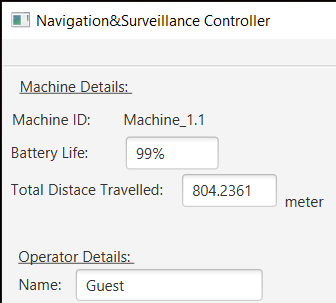
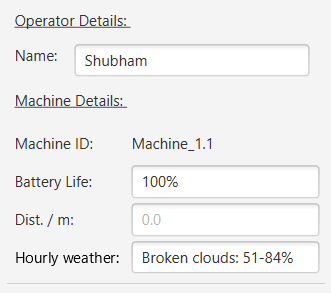
Created a thread to check on battery and weather & ESC closes the program

Changed region(s): [[0.0, 0.0, 1.0, 1.0]]

diff --git a/src/main/java/NavigationPanelController.java b/src/main/java/NavigationPanelController.java
@@ -8,6 +8,7 @@ import javafx.scene.control.TextField;
 import javafx.scene.image.ImageView;
 import javafx.scene.input.KeyCode;
 import javafx.scene.input.KeyEvent;
+import javafx.stage.Window;
 import org.opencv.core.CvType;
 import org.opencv.core.Mat;
 import org.opencv.videoio.VideoCapture;
@@ -17,7 +18,7 @@ import java.awt.image.DataBufferByte;
 import java.io.IOException;
 
 
-public class NavigationPanelController {
+public class NavigationPanelController extends Thread {
 
     public TextArea systemLogTA_ID;
     public TextField opName_ID;
@@ -28,9 +29,6 @@ public class NavigationPanelController {
     public TextField weatherRtf_ID;
     public Button backTrack_btn;
 
-    public NavigationPanelController() throws IOException {
-    }
-
     /**
      * Initialize Value
      * */
@@ -40,11 +38,6 @@ public class NavigationPanelController {
 
         /** Sets operator name fetching from user_ID field from login */
         opName_ID.setText( LoginController.operatorName );
-
-        /** Battery of laptop showing here can be replaced with vehicles battery */
-        Kernel32.SYSTEM_POWER_STATUS batteryStatus = new Kernel32.SYSTEM_POWER_STATUS();
-        Kernel32.INSTANCE.GetSystemPowerStatus(batteryStatus);
-        batteryLife_ID.setText(batteryStatus.toString());
 
 
         /** Turn on Video Cam */
@@ -57,28 +50,50 @@ public class NavigationPanelController {
             e.printStackTrace();
         }
 
-        /** Get weather data */
-        try{
-
-            System.out.println("Attempting to get weather data");
-
-            /** Gets Latitude and Longitude */
-            String latitude = LocalMapGenerator.latitudeGetter( LocalMapGenerator.publicIP_Finder() );
-            String longitude = LocalMapGenerator.longitudeGetter( LocalMapGenerator.publicIP_Finder() );
-
-            /** Call Weather api for weather data */
-            String currentWeather = LocalMapGenerator.getWeatherData(latitude, longitude);
-            weatherRtf_ID.setText( currentWeather );
-            System.out.println("Successfully fetched weather data");
-
-        }catch(Exception e){
-            weatherRtf_ID.setText("N/A");
-            System.out.println("Couldn't fetch weather data");
-            e.printStackTrace();
-        }
+        /** Calling thread for periodically checking on battery and weather in eevry 2 minutes */
+        start();
 
     }
 
+    /** This thread checks for battery and weather in every 2 minutes */
+    public void run(){
+
+        while(true){
+            try {
+                System.out.println("System: Checking battery Percentage");
+                /** Battery of laptop showing here can be replaced with vehicles battery */
+                Kernel32.SYSTEM_POWER_STATUS batteryStatus = new Kernel32.SYSTEM_POWER_STATUS();
+                Kernel32.INSTANCE.GetSystemPowerStatus(batteryStatus);
+                batteryLife_ID.setText(batteryStatus.toString());
+
+                /** Get weather data */
+                try{
+
+                    System.out.println("Location: Attempting to get weather data");
+
+                    /** Gets Latitude and Longitude */
+                    String latitude = LocalMapGenerator.latitudeGetter( LocalMapGenerator.publicIP_Finder() );
+                    String longitude = LocalMapGenerator.longitudeGetter( LocalMapGenerator.publicIP_Finder() );
+
+                    /** Call Weather api for weather data */
+                    String currentWeather = LocalMapGenerator.getWeatherData(latitude, longitude);
+                    weatherRtf_ID.setText( currentWeather );
+                    System.out.println("Location: Successfully fetched weather data");
+
+                }catch(Exception e){
+                    weatherRtf_ID.setText("N/A");
+                    System.out.println("Location: Couldn't fetch weather data");
+                    e.printStackTrace();
+                }
+
+                sleep(120000);
+
+            } catch (InterruptedException e) {
+                e.printStackTrace();
+            }
+        }
+
+    }
 
     /**
      * Calculating for How long key was pressed
@@ -91,7 +106,6 @@ public class NavigationPanelController {
     /**
      * System time when key was pressed
      * */
-
     public void arrowKeyStrokesHandler(KeyEvent keyEvent) {
         currKey = keyEvent.getCode();
         if(currKey != lastKey){
@@ -116,6 +130,8 @@ public class NavigationPanelController {
             }
             else if(currKey == KeyCode.TAB){ // Capture Photo
                 backtrackBtnClicked();
+            }else if(currKey == KeyCode.ESCAPE){
+                System.exit(0);
             }
         }
     }
@@ -258,9 +274,6 @@ public class NavigationPanelController {
         /** Responsible for creating blended heatChart with maps*/
         new MapBlender().combineHeatmapWithGoogleMap();
 
-        /** Periodically check for battery status after each key release*/
-        batteryStatusChecker();
-
     }
 
     /**
@@ -293,14 +306,6 @@ public class NavigationPanelController {
 
     }
 
-    /**
-     * Battery of laptop/vehicle displayed here
-     * */
-    private void batteryStatusChecker(){
-        Kernel32.SYSTEM_POWER_STATUS batteryStatus = new Kernel32.SYSTEM_POWER_STATUS();
-        Kernel32.INSTANCE.GetSystemPowerStatus(batteryStatus);
-        batteryLife_ID.setText(batteryStatus.toString());
-    }
 
     /**
      * Capture Images from default camera and sent to ImageProcessor

diff --git a/src/main/java/RTH_Controller.java b/src/main/java/RTH_Controller.java
@@ -1,8 +1,19 @@
+import java.util.ArrayList;
 import java.util.Stack;
 
 public class RTH_Controller {
 
-    /** Create a stack out of Stack or Deque */
+    /** Create a Data structure to hold Body movement commands */
+    public String[][] logTableGenerator(int noOfCommands){
+
+        String[][] logTable = new String[noOfCommands][2];
+
+        return logTable;
+    }
+
+
+
+
 
     /** Push every body movement done by machine in stack as a log*/
 
